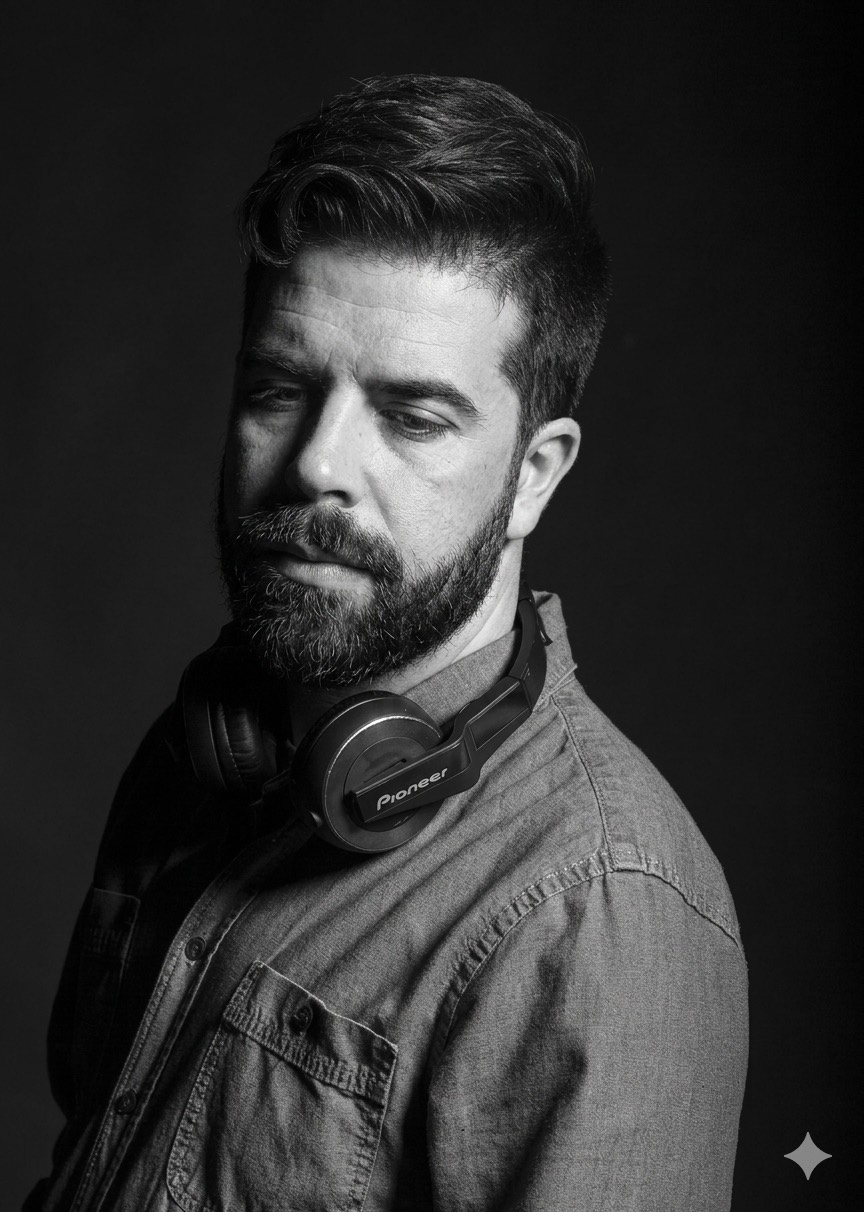
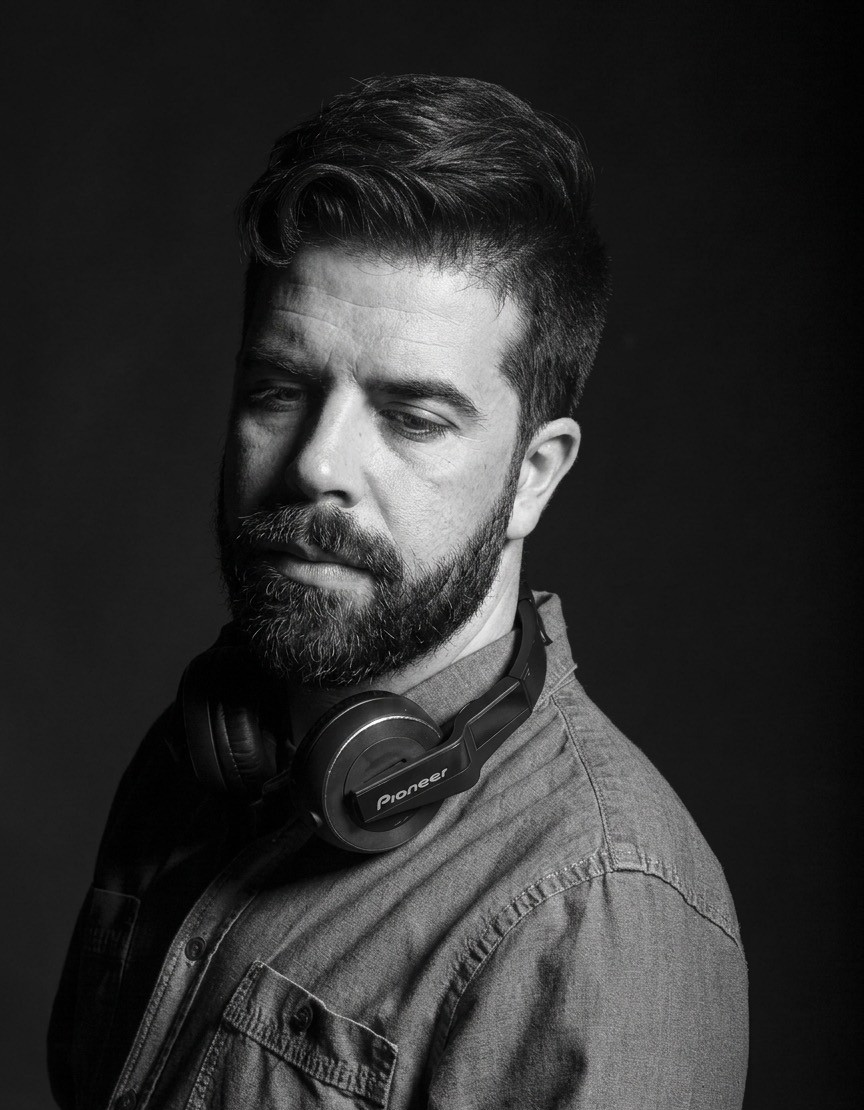
Diseño: orden del embudo, gradiente para acciones, booking ampliado y retrato en el hero (#26)
Mejoras 7-10 de la revisión de diseño y los arreglos de credibilidad que
no necesitan material nuevo:

- Orden de secciones según el embudo del promotor (salas arriba,
  Contact detrás del booking); la navbar sigue el mismo orden.
- El gradiente vuelve a significar "acción": cifras, días, duraciones
  y botones de play pasan a neutros.
- Booking: fecha, ciudad y tipo primero; formato opcional ("No lo sé,
  recomiéndame"); nuevos campos sala/evento, franja y presupuesto
  (texto libre, sin tramos inventados).
- Hero con el retrato como fondo difuminado.
- Retrato y og.jpg recortados para quitar la marca de agua de Gemini;
  la descarga del press kit ya no dice "en alta".
- "Más popular" → "Recomendado para club"; "Clubs y festivales que
  confían" → "Salas donde ha pinchado"; las tarjetas de salas dejan de
  animarse como si fueran enlaces.
- Fuera la foto de Samsara (logo de la sala y caras de público).

diff --git a/components/sections/BookingForm.tsx b/components/sections/BookingForm.tsx
@@ -43,6 +43,9 @@ export function BookingForm() {
       fecha: field(fd, "fecha"),
       ciudad: field(fd, "ciudad"),
       aforo: field(fd, "aforo"),
+      sala: field(fd, "sala"),
+      franja: field(fd, "franja"),
+      presupuesto: field(fd, "presupuesto"),
       formato: field(fd, "formato"),
       mensaje: field(fd, "mensaje"),
       consentimiento: fd.get("consentimiento") === "on",
@@ -81,6 +84,79 @@ export function BookingForm() {
       <RequiredLegend />
 
       <div className="grid grid-cols-1 gap-4 sm:grid-cols-2">
+        {/* Primero lo que define la fecha (cuándo, dónde, qué) y después quién
+            la pide: es lo que el promotor tiene a mano y lo que decide si hay hueco. */}
+
+        <div className="flex flex-col gap-1.5">
+          <label htmlFor="booking-fecha" className={labelClass}>
+            Fecha del evento<Required />
+          </label>
+          <input
+            id="booking-fecha"
+            name="fecha"
+            type="date"
+            required
+            min={minDate}
+            className={inputClass}
+          />
+        </div>
+
+        <div className="flex flex-col gap-1.5">
+          <label htmlFor="booking-ciudad" className={labelClass}>
+            Ciudad<Required />
+          </label>
+          <input
+            id="booking-ciudad"
+            name="ciudad"
+            type="text"
+            required
+            maxLength={120}
+            autoComplete="address-level2"
+            placeholder="Madrid, Barcelona…"
+            className={inputClass}
+          />
+        </div>
+
+        <SelectField id="booking-tipo" name="tipoEvento" label="Tipo de evento" required>
+          <option value="" disabled>Selecciona…</option>
+          <option value="Club / Discoteca">Club / Discoteca</option>
+          <option value="Festival">Festival</option>
+          <option value="Evento privado">Evento privado</option>
+          <option value="Boda">Boda</option>
+          <option value="Evento corporativo">Evento corporativo</option>
+          <option value="Otro">Otro</option>
+        </SelectField>
+
+        <SelectField id="booking-formato" name="formato" label="Formato de set">
+          <option value="">No lo sé, recomiéndame</option>
+          <option value="Set Club (90-120 min)">Set Club — 90/120 min</option>
+          <option value="Peak Time (2-3h)">Peak Time — 2/3h</option>
+          <option value="All Night Long (5-7h)">All Night Long — 5/7h</option>
+        </SelectField>
+
+        <div className="flex flex-col gap-1.5">
+          <label htmlFor="booking-sala" className={labelClass}>
+            Sala o nombre del evento
+          </label>
+          <input
+            id="booking-sala"
+            name="sala"
+            type="text"
+            maxLength={120}
+            placeholder="Sala, festival o celebración"
+            className={inputClass}
+          />
+        </div>
+
+        <SelectField id="booking-franja" name="franja" label="Franja del set">
+          <option value="">Selecciona…</option>
+          <option value="Warm-up">Warm-up</option>
+          <option value="Peak time">Peak time</option>
+          <option value="Cierre">Cierre</option>
+          <option value="Toda la noche">Toda la noche</option>
+          <option value="Evento de día">Evento de día</option>
+        </SelectField>
+
         <div className="flex flex-col gap-1.5">
           <label htmlFor="booking-nombre" className={labelClass}>
             Nombre / Empresa<Required />
@@ -137,49 +213,16 @@ export function BookingForm() {
           <option value="Más de 1.000">Más de 1.000</option>
         </SelectField>
 
-        <SelectField id="booking-tipo" name="tipoEvento" label="Tipo de evento" required>
-          <option value="" disabled>Selecciona…</option>
-          <option value="Club / Discoteca">Club / Discoteca</option>
-          <option value="Festival">Festival</option>
-          <option value="Evento privado">Evento privado</option>
-          <option value="Boda">Boda</option>
-          <option value="Evento corporativo">Evento corporativo</option>
-          <option value="Otro">Otro</option>
-        </SelectField>
-
-        <SelectField id="booking-formato" name="formato" label="Formato de set" required>
-          <option value="" disabled>Selecciona…</option>
-          <option value="Set Club (90-120 min)">Set Club — 90/120 min</option>
-          <option value="Peak Time (2-3h)">Peak Time — 2/3h</option>
-          <option value="All Night Long (5-7h)">All Night Long — 5/7h</option>
-        </SelectField>
-
-        <div className="flex flex-col gap-1.5">
-          <label htmlFor="booking-fecha" className={labelClass}>
-            Fecha del evento<Required />
+        <div className="flex flex-col gap-1.5 sm:col-span-2">
+          <label htmlFor="booking-presupuesto" className={labelClass}>
+            Presupuesto orientativo
           </label>
           <input
-            id="booking-fecha"
-            name="fecha"
-            type="date"
-            required
-            min={minDate}
-            className={inputClass}
-          />
-        </div>
-
-        <div className="flex flex-col gap-1.5">
-          <label htmlFor="booking-ciudad" className={labelClass}>
-            Ciudad<Required />
-          </label>
-          <input
-            id="booking-ciudad"
-            name="ciudad"
+            id="booking-presupuesto"
+            name="presupuesto"
             type="text"
-            required
             maxLength={120}
-            autoComplete="address-level2"
-            placeholder="Madrid, Barcelona…"
+            placeholder="Opcional: una cifra, un rango o «prefiero propuesta»"
             className={inputClass}
           />
         </div>
@@ -193,7 +236,7 @@ export function BookingForm() {
             name="mensaje"
             rows={3}
             maxLength={2000}
-            placeholder="Horario estimado, aforo, rider específico o cualquier detalle…"
+            placeholder="Line-up, estilo de la noche, equipo en cabina o cualquier detalle…"
             className={inputClass + " resize-none"}
           />
         </div>

diff --git a/app/actions/booking.ts b/app/actions/booking.ts
@@ -24,7 +24,14 @@ export type BookingFields = {
   fecha: string;
   ciudad: string;
   aforo?: string;
-  formato: string;
+  /** Sala o nombre del evento */
+  sala?: string;
+  /** Warm-up, peak, cierre… */
+  franja?: string;
+  /** Texto libre: los tramos de cachet aún no están fijados */
+  presupuesto?: string;
+  /** Opcional: un cliente de boda no tiene por qué conocer los formatos de club */
+  formato?: string;
   mensaje: string;
   // Consentimiento RGPD: es la base legal del tratamiento, obligatorio
   consentimiento: boolean;
@@ -58,10 +65,13 @@ export async function submitBooking(fields: BookingFields): Promise<BookingState
   const fecha = cleanLine(fields.fecha, FIELD_LIMITS.short);
   const ciudad = cleanLine(fields.ciudad, FIELD_LIMITS.short);
   const aforo = cleanLine(fields.aforo, FIELD_LIMITS.short);
+  const sala = cleanLine(fields.sala, FIELD_LIMITS.short);
+  const franja = cleanLine(fields.franja, FIELD_LIMITS.short);
+  const presupuesto = cleanLine(fields.presupuesto, FIELD_LIMITS.short);
   const formato = cleanLine(fields.formato, FIELD_LIMITS.short);
   const mensaje = cleanField(fields.mensaje, FIELD_LIMITS.message);
 
-  if (!nombre || !email || !tipoEvento || !fecha || !ciudad || !formato) {
+  if (!nombre || !email || !tipoEvento || !fecha || !ciudad) {
     return { success: false, error: "Completa todos los campos obligatorios." };
   }
 
@@ -93,8 +103,11 @@ export async function submitBooking(fields: BookingFields): Promise<BookingState
     `🎪 <b>Tipo:</b> ${escapeHtml(tipoEvento)}`,
     `📅 <b>Fecha:</b> ${escapeHtml(fecha)}`,
     `📍 <b>Ciudad:</b> ${escapeHtml(ciudad)}`,
+    ...(sala ? [`🏛 <b>Sala / evento:</b> ${escapeHtml(sala)}`] : []),
+    ...(franja ? [`🕐 <b>Franja:</b> ${escapeHtml(franja)}`] : []),
     ...(aforo ? [`👥 <b>Aforo:</b> ${escapeHtml(aforo)}`] : []),
-    `🎧 <b>Formato:</b> ${escapeHtml(formato)}`,
+    `🎧 <b>Formato:</b> ${escapeHtml(formato || "Sin preferencia")}`,
+    ...(presupuesto ? [`💶 <b>Presupuesto:</b> ${escapeHtml(presupuesto)}`] : []),
     ...(mensaje ? [`💬 <b>Mensaje:</b> ${escapeHtml(mensaje)}`] : []),
     "",
     `📩 Responder a: ${escapeHtml(email)}`,

diff --git a/components/sections/Venues.tsx b/components/sections/Venues.tsx
@@ -8,10 +8,10 @@ export function Venues() {
     <section id="venues" className="relative bg-dark-primary py-20 md:py-28">
       <div className="mx-auto max-w-6xl px-5 md:px-8">
         <SectionHeading
-          overline="DONDE HA PINCHADO"
+          overline="TRAYECTORIA"
           title={
             <>
-              Clubs y festivales que <span className="text-gradient">confían</span>
+              Salas donde ha <span className="text-gradient">pinchado</span>
             </>
           }
         />
@@ -23,7 +23,7 @@ export function Venues() {
               key={v.name + v.year}
               delay={i * 0.07}
               y={20}
-              className="card-lift relative aspect-video overflow-hidden rounded-2xl border border-border-dark group"
+              className="relative aspect-video overflow-hidden rounded-2xl border border-border-dark"
             >
               {v.img ? (
                 <>
@@ -33,7 +33,7 @@ export function Venues() {
                     src={v.img}
                     alt=""
                     fill
-                    className="object-cover saturate-[0.55] brightness-90 transition-all duration-700 group-hover:scale-105 group-hover:saturate-100 group-hover:brightness-100"
+                    className="object-cover saturate-[0.55] brightness-90"
                     sizes="(max-width: 768px) 100vw, 33vw"
                   />
                   <div className="absolute inset-0 bg-gradient-to-t from-black/80 via-black/20 to-transparent" />

diff --git a/components/sections/Hero.tsx b/components/sections/Hero.tsx
@@ -1,3 +1,4 @@
+import Image from "next/image";
 import Link from "next/link";
 import { CalendarCheck, Play } from "lucide-react";
 import { site } from "@/lib/data";
@@ -17,6 +18,22 @@ export function Hero() {
         aria-hidden
         className="pointer-events-none absolute -top-1/3 left-1/2 -translate-x-1/2 w-[120vw] h-[120vw] max-w-[1400px] max-h-[1400px] gradient-glow"
       />
+
+      {/* La cara del artista en el primer pantallazo, como fondo que se funde
+          con el negro para no competir con el titular: arriba en móvil, a la
+          derecha en escritorio. Decorativa: el retrato con alt está en About. */}
+      <div
+        aria-hidden
+        className="pointer-events-none absolute inset-y-0 right-0 w-full opacity-25 [mask-image:linear-gradient(to_bottom,black_25%,transparent_75%)] md:w-1/2 md:opacity-40 md:[mask-image:linear-gradient(to_left,black_30%,transparent)]"
+      >
+        <Image
+          src="/images/portrait-bw.webp"
+          alt=""
+          fill
+          className="object-cover object-top"
+          sizes="(max-width: 768px) 100vw, 50vw"
+        />
+      </div>
 
       <div className="relative mx-auto max-w-5xl px-5 text-center md:px-8">
         {/* overline */}

diff --git a/lib/data.ts b/lib/data.ts
@@ -124,7 +124,8 @@ export const site = {
     // Sin foto de sala: cae al tratamiento tipográfico en vez de usar una
     // imagen que desentona con el resto de la rejilla.
     { name: "Keeper", city: "Madrid", country: "ES", year: "2024" },
-    { name: "Samsara", city: "Madrid", country: "ES", year: "2025", img: "/images/venue-samsara.jpg" },
+    // Sin foto: la anterior llevaba el logo de la sala y caras reconocibles de público.
+    { name: "Samsara", city: "Madrid", country: "ES", year: "2025" },
     { name: "Mondo Disko", city: "Madrid", country: "ES", year: "2024", img: "/images/venue-mondo-disko.jpg" },
   ] as Venue[],
 
@@ -141,7 +142,7 @@ export const site = {
       "Llegada 60-90 min antes · sound check de 15-20 min",
     ],
     assets: [
-      { label: "Retrato en alta (WEBP)", href: "/images/portrait-bw.webp" },
+      { label: "Retrato (WEBP · 864×1110 px)", href: "/images/portrait-bw.webp" },
       { label: "Isotipo (PNG)", href: "/logo-isotype.png" },
       { label: "Logotipo completo (PNG)", href: "/logo-wordmark.png" },
     ],

diff --git a/app/page.tsx b/app/page.tsx
@@ -47,19 +47,23 @@ export default async function Home() {
     <>
       <Navbar />
       <main id="main-content">
+        {/* Orden del embudo del promotor: escuchar y ver dónde ha pinchado,
+            entender qué compra, resolver dudas y pedir fecha. El formulario
+            genérico va detrás del de booking para que nadie lo use para
+            contratar (no recoge fecha ni ciudad). */}
         <Hero />
         <Stats />
-        <About />
         <Dates dates={dates} />
-        <Mixes videos={ytVideos} tracks={scTracks} />
-        <Releases releases={spotifyReleases} artist={spotifyArtist} />
-        <Formats />
         <Venues />
+        <Mixes videos={ytVideos} tracks={scTracks} />
+        <Formats />
+        <About />
+        <Releases releases={spotifyReleases} artist={spotifyArtist} />
         <Testimonials />
-        <Socials />
         <Faq />
-        <Contact />
         <FinalCta />
+        <Contact />
+        <Socials />
       </main>
       <Footer />
       <StickyCta />

diff --git a/tests/actions.test.ts b/tests/actions.test.ts
@@ -46,6 +46,22 @@ describe("submitBooking", () => {
     expect(html).toContain("promotor@sala.com");
   });
 
+  it("acepta un booking sin formato e incluye sala, franja y presupuesto", async () => {
+    const res = await submitBooking({
+      ...validBooking,
+      formato: "",
+      sala: "Mondo Disko",
+      franja: "Peak time",
+      presupuesto: "A convenir <i>",
+    });
+    expect(res).toEqual({ success: true });
+    const html = sendTelegramMessage.mock.calls[0][0];
+    expect(html).toContain("Sin preferencia");
+    expect(html).toContain("Mondo Disko");
+    expect(html).toContain("Peak time");
+    expect(html).toContain("A convenir &lt;i&gt;");
+  });
+
   it("acepta en silencio (sin enviar) cuando el honeypot va relleno", async () => {
     const res = await submitBooking({ ...validBooking, web: "http://spam" });
     expect(res).toEqual({ success: true });

diff --git a/components/sections/Formats.tsx b/components/sections/Formats.tsx
@@ -42,7 +42,7 @@ export function Formats() {
             >
               {f.featured && (
                 <div className="absolute -top-3 left-1/2 -translate-x-1/2 px-4 py-1 rounded-full gradient-primary text-xs font-bold uppercase tracking-wider text-white">
-                  Más popular
+                  Recomendado para club
                 </div>
               )}
 
@@ -50,9 +50,7 @@ export function Formats() {
                 {f.name}
               </h3>
               <div
-                className={`mt-4 font-display text-4xl md:text-5xl ${
-                  f.featured ? "text-gradient" : "text-text-primary"
-                }`}
+                className="mt-4 font-display text-4xl text-text-primary md:text-5xl"
               >
                 {f.duration}
               </div>

diff --git a/components/MediaFacade.tsx b/components/MediaFacade.tsx
@@ -69,7 +69,7 @@ export function MediaFacade({
       )}
       <div className="absolute inset-0 bg-black/30 transition-colors group-hover:bg-black/15" />
       <span
-        className={`absolute left-1/2 top-1/2 flex -translate-x-1/2 -translate-y-1/2 items-center justify-center rounded-full gradient-primary shadow-glow-strong transition-transform group-hover:scale-110 ${
+        className={`absolute left-1/2 top-1/2 flex -translate-x-1/2 -translate-y-1/2 items-center justify-center rounded-full border border-white/30 bg-black/40 backdrop-blur-sm transition-[transform,background-color] group-hover:scale-110 group-hover:bg-accent-red ${
           compact ? "h-12 w-12" : "h-16 w-16"
         }`}
       >

diff --git a/components/Navbar.tsx b/components/Navbar.tsx
@@ -8,11 +8,11 @@ import { Menu, X } from "lucide-react";
 // Rutas absolutas ("/#about" y no "#about"): la barra también se renderiza en
 // /press-kit y /privacidad, donde un ancla relativa no apunta a nada.
 const links = [
-  { href: "/#about", label: "Sobre Swarthy" },
-  { href: "/#mixes", label: "Sets" },
-  { href: "/#spotify", label: "Música" },
-  { href: "/#formats", label: "Formatos" },
   { href: "/#venues", label: "Clubs" },
+  { href: "/#mixes", label: "Sets" },
+  { href: "/#formats", label: "Formatos" },
+  { href: "/#about", label: "Sobre Swarthy" },
+  { href: "/#spotify", label: "Música" },
   { href: "/#faq", label: "FAQ" },
   { href: "/#contacto", label: "Contacto" },
 ];

diff --git a/components/SpotifyProfilePlayer.tsx b/components/SpotifyProfilePlayer.tsx
@@ -57,7 +57,7 @@ export function SpotifyProfilePlayer({ artist }: { artist: SpotifyArtistCard | n
         <button
           type="button"
           onClick={() => setPlaying(true)}
-          className="mt-5 inline-flex items-center gap-2 rounded-full gradient-primary px-6 py-3 text-sm font-semibold text-white shadow-glow transition-transform hover:scale-105"
+          className="mt-5 inline-flex items-center gap-2 rounded-full border border-border-dark bg-dark-primary px-6 py-3 text-sm font-semibold text-text-primary transition-colors hover:bg-dark-secondary"
         >
           <Play size={16} className="fill-white text-white" aria-hidden="true" />
           Escuchar ahora

diff --git a/components/sections/Dates.tsx b/components/sections/Dates.tsx
@@ -52,7 +52,7 @@ export function Dates({ dates }: DatesProps) {
                   dateTime={gig.date}
                   className="flex shrink-0 items-baseline gap-2 sm:w-24 sm:flex-col sm:items-center sm:gap-0"
                 >
-                  <span className="font-display text-4xl leading-none text-gradient">
+                  <span className="font-display text-4xl leading-none text-text-primary">
                     {dayFormatter.format(d)}
                   </span>
                   <span className="text-xs uppercase tracking-[0.2em] text-text-secondary">
